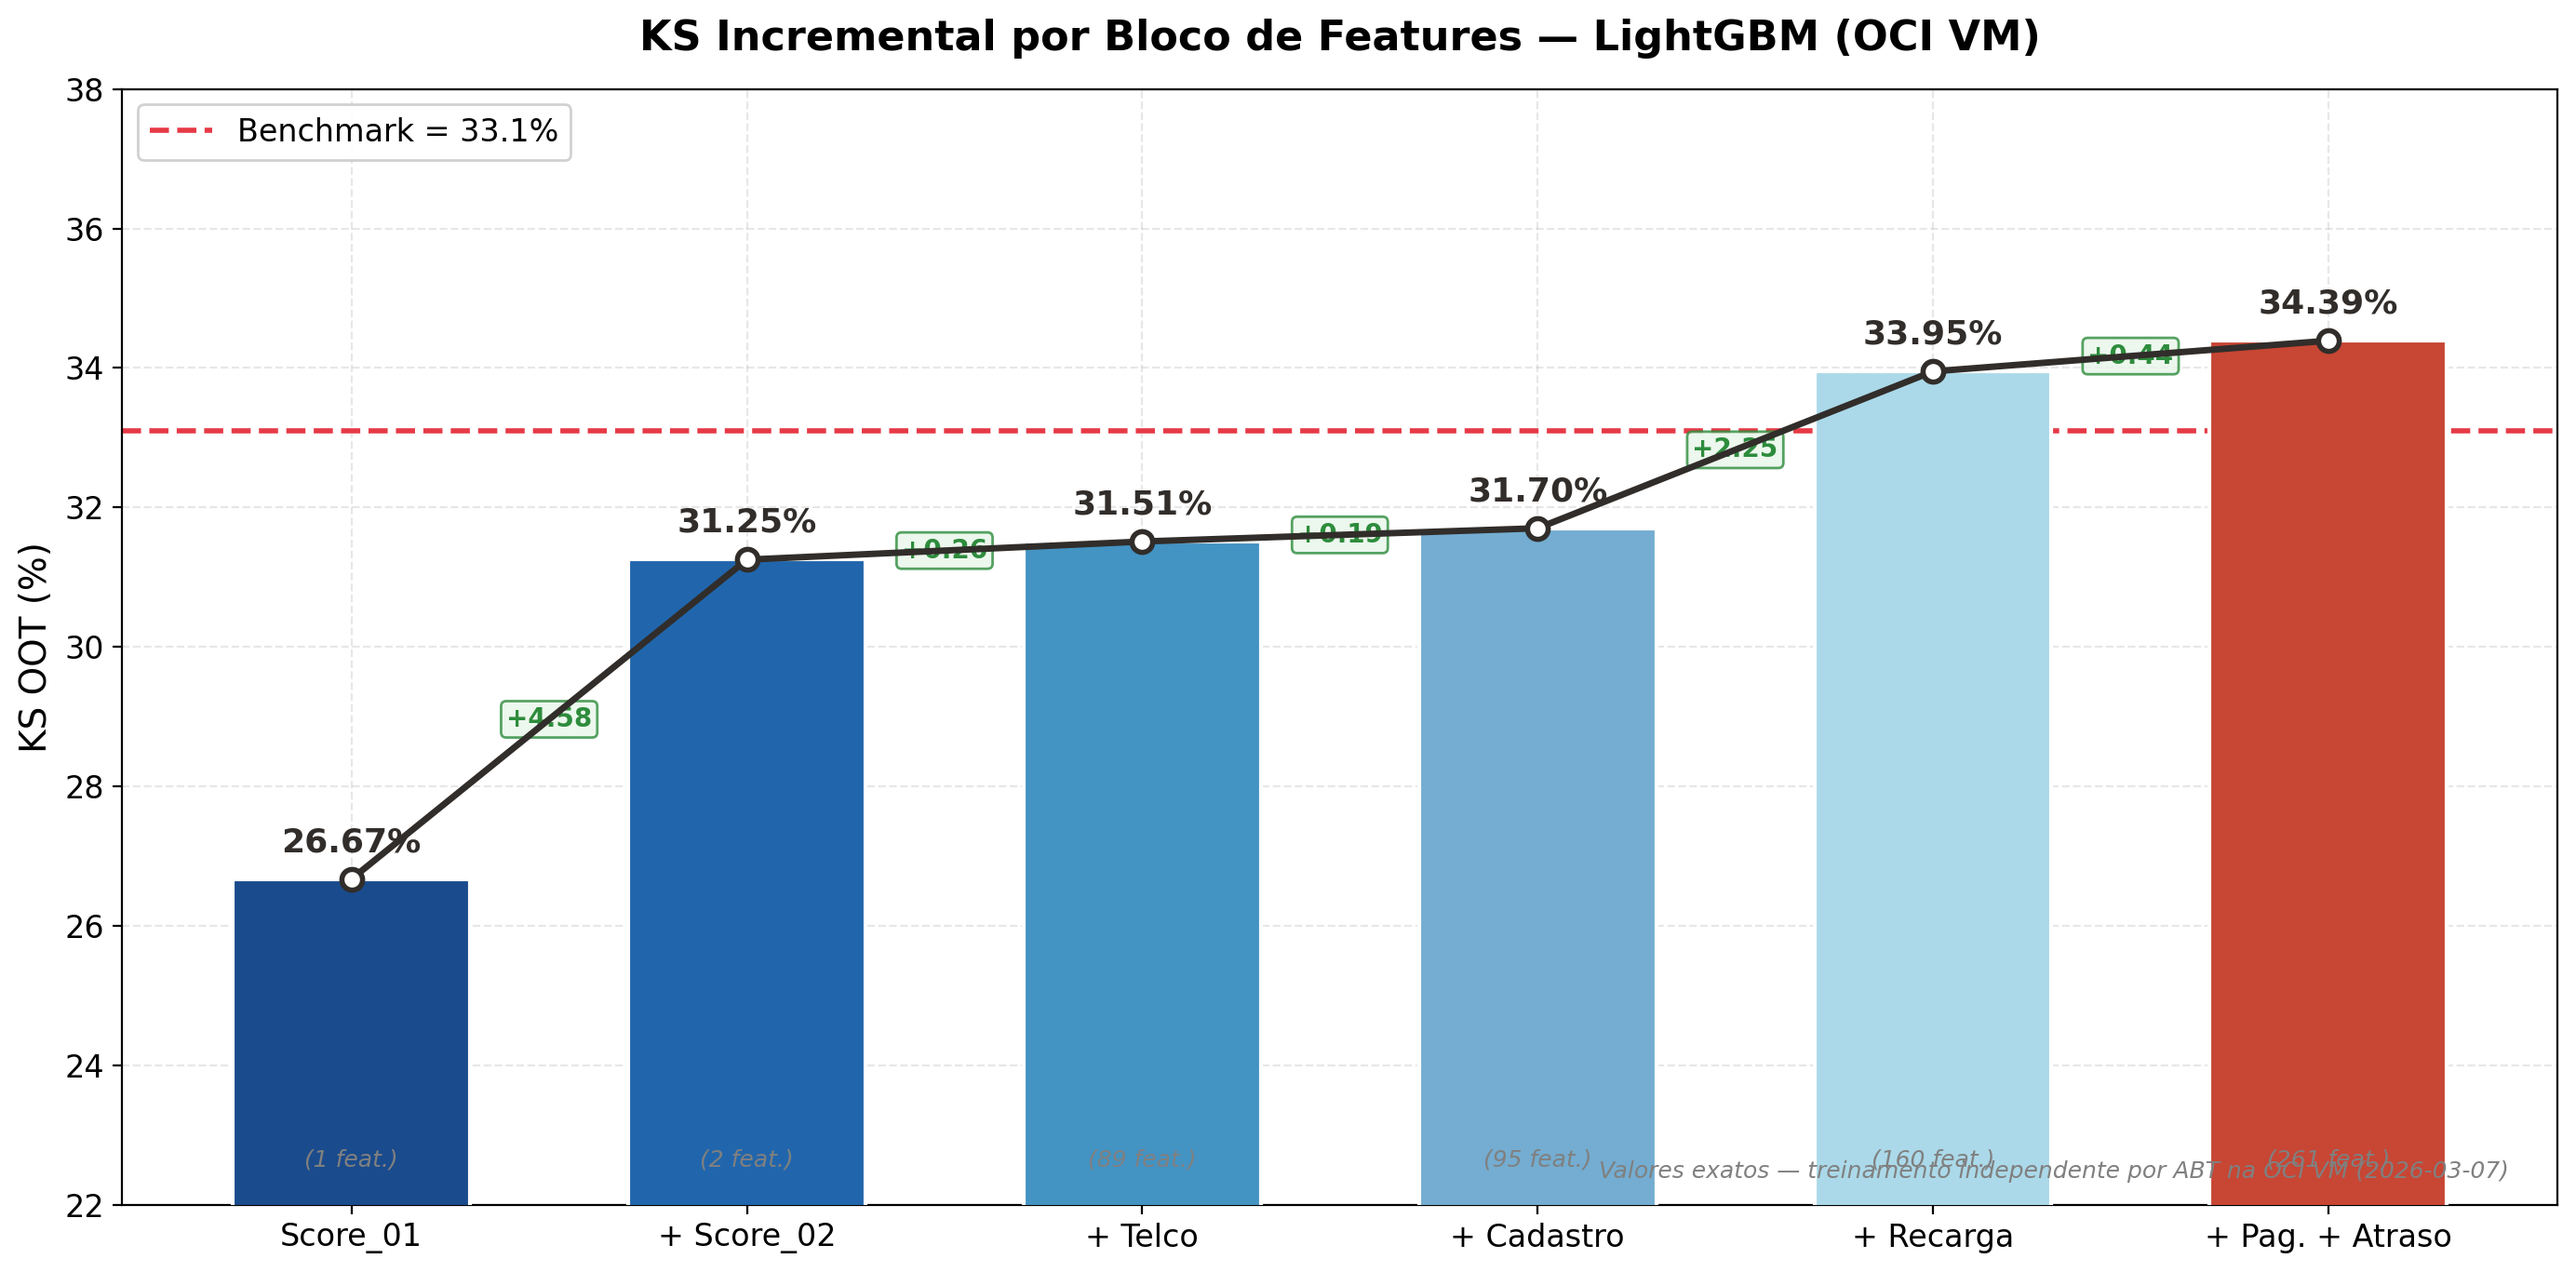
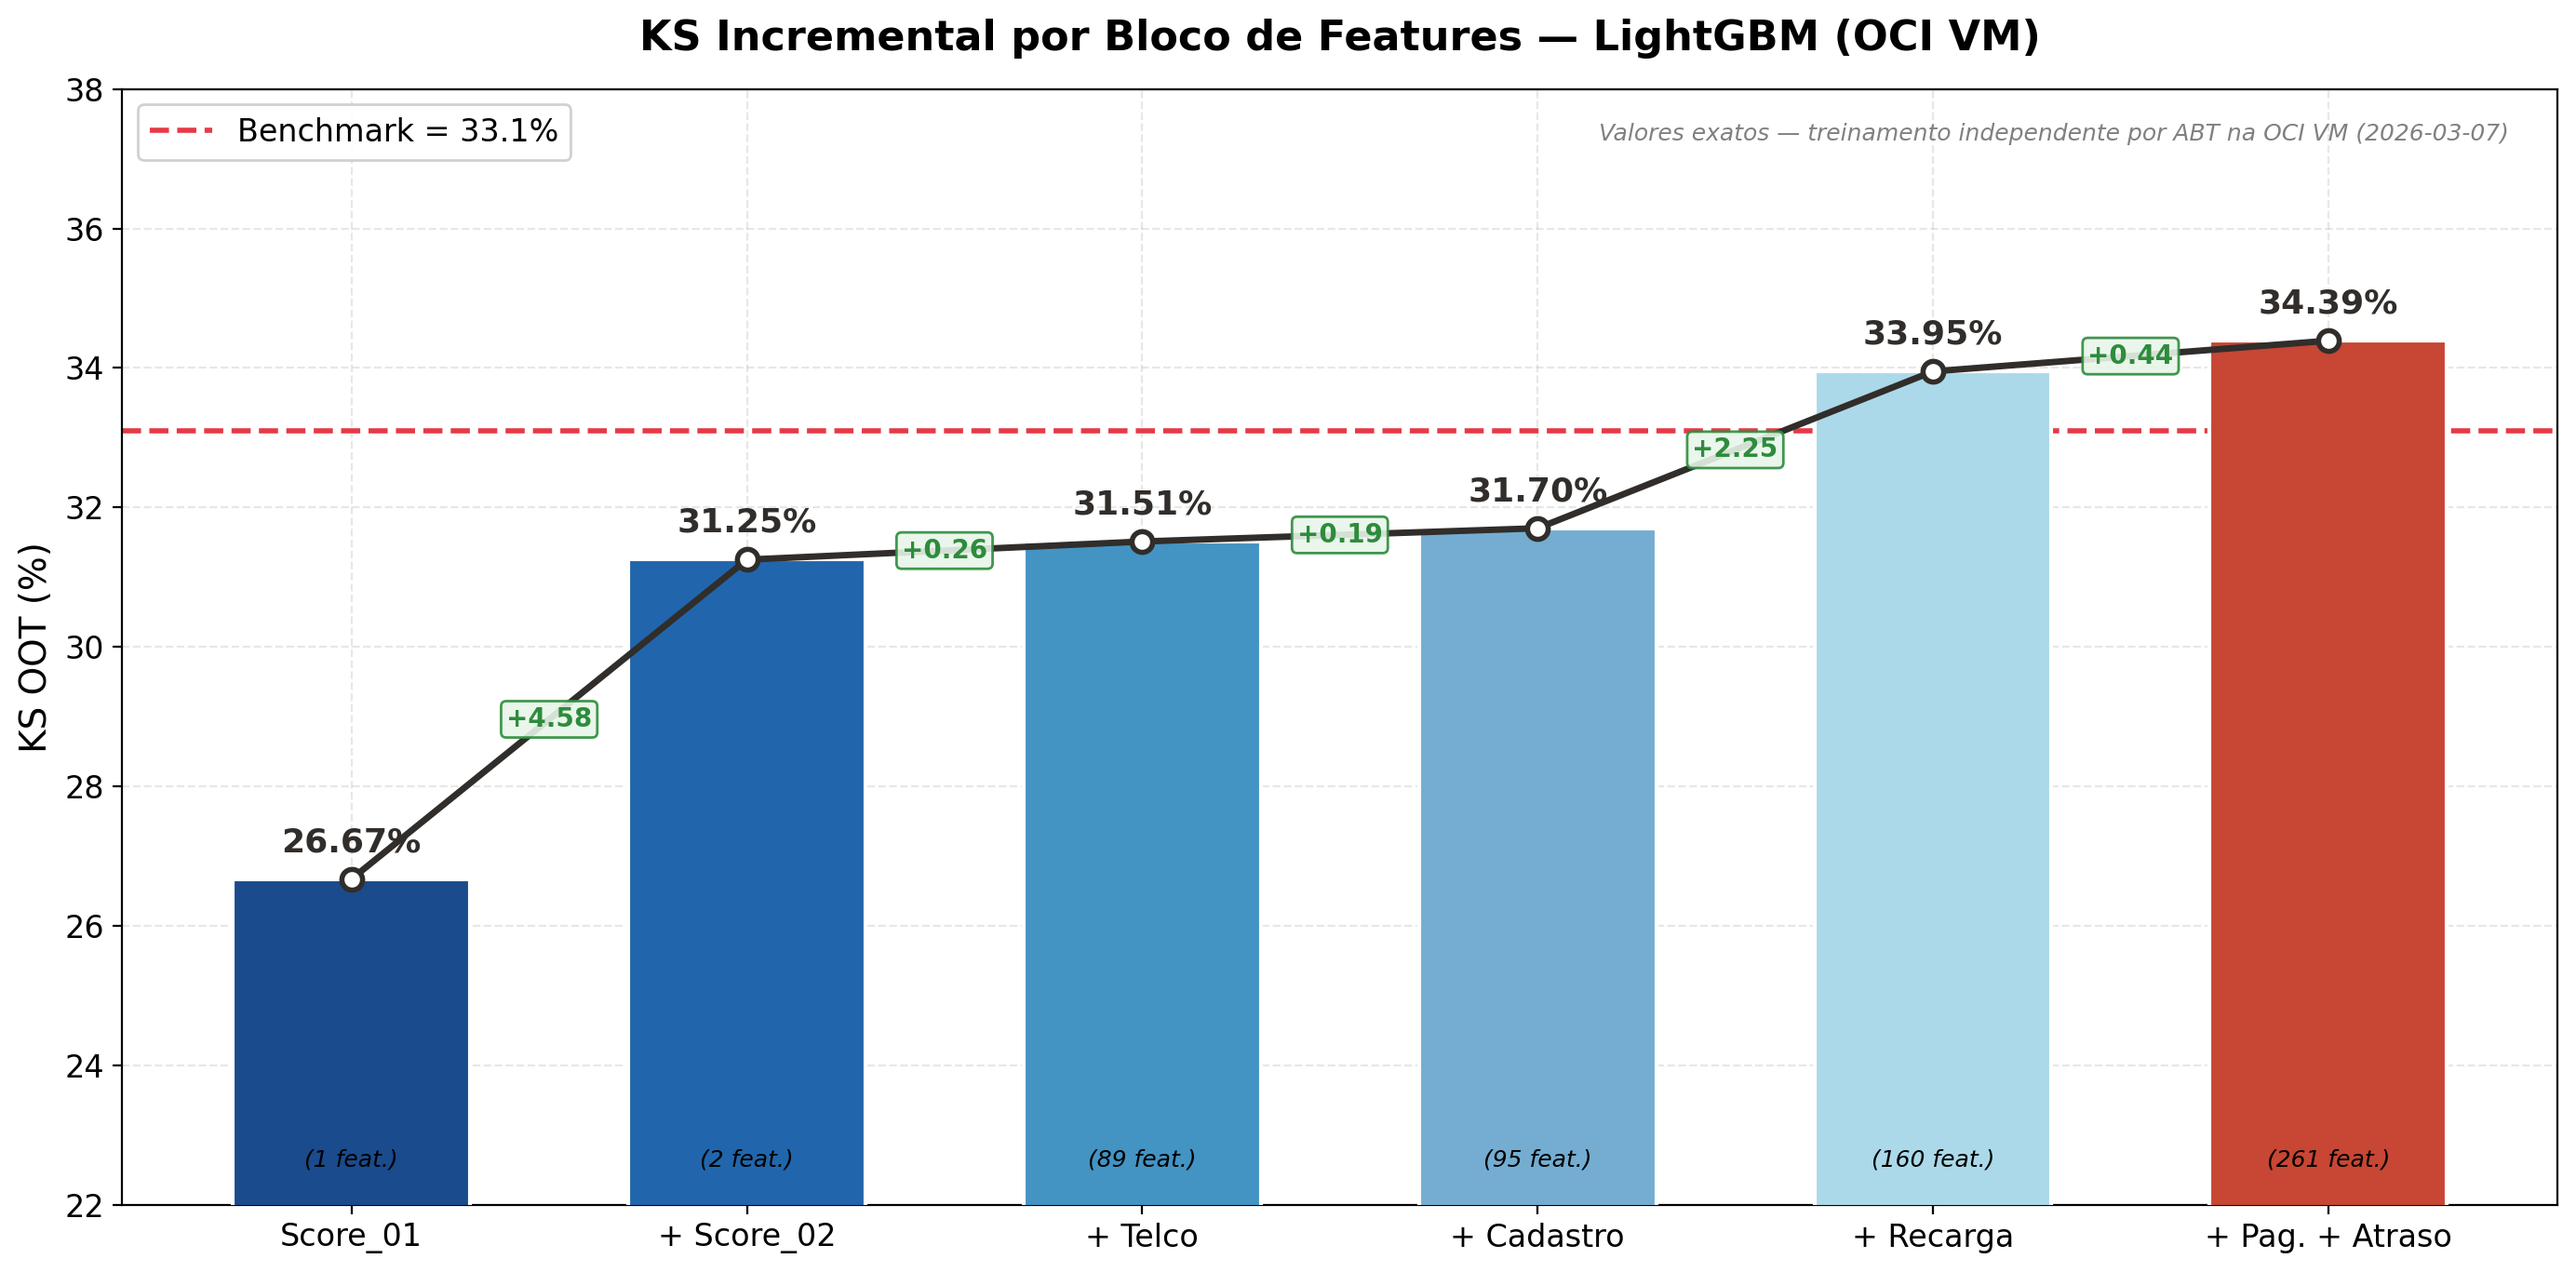
chore: análise graficos

diff --git a/mig_oci/analise/ks_incremental_charts.py b/mig_oci/analise/ks_incremental_charts.py
@@ -151,18 +151,18 @@ def chart_ks_incremental():
         ax.text(bar.get_x() + bar.get_width() / 2, bar.get_height() + 0.3,
                 f"{val:.2f}%", ha="center", va="bottom", fontsize=13, fontweight="bold", color=COLORS["secondary"])
 
-    # Delta annotations
+    # Delta annotations (zorder=5 para ficar NA FRENTE da linha)
     for i in range(1, n):
         delta = ks_values[i] - ks_values[i - 1]
         y_mid = (ks_values[i] + ks_values[i - 1]) / 2
         ax.annotate(f"+{delta:.2f}",
                     xy=(i - 0.5, y_mid), fontsize=10, color=COLORS["green"],
-                    fontweight="bold", ha="center", va="center",
-                    bbox=dict(boxstyle="round,pad=0.2", facecolor="#E8F5E9", edgecolor=COLORS["green"], alpha=0.8))
+                    fontweight="bold", ha="center", va="center", zorder=6,
+                    bbox=dict(boxstyle="round,pad=0.2", facecolor="#E8F5E9", edgecolor=COLORS["green"], alpha=0.9))
 
-    # Número de features embaixo de cada label
+    # Número de features embaixo de cada label (cor preta para melhor visibilidade)
     for i, nf in enumerate(n_features):
-        ax.text(i, 22.8, f"({nf} feat.)", ha="center", va="top", fontsize=9, color="gray", style="italic")
+        ax.text(i, 22.8, f"({nf} feat.)", ha="center", va="top", fontsize=9, color="black", style="italic")
 
     ax.set_xticks(x)
     ax.set_xticklabels(labels, fontsize=12)
@@ -171,9 +171,9 @@ def chart_ks_incremental():
     ax.set_ylim(22, 38)
     ax.legend(loc="upper left", fontsize=12, framealpha=0.9)
 
-    # Nota: todos valores exatos
-    ax.text(0.98, 0.02, "Valores exatos — treinamento independente por ABT na OCI VM (2026-03-07)",
-            transform=ax.transAxes, fontsize=9, ha="right", va="bottom",
+    # Nota: todos valores exatos (posicionada no topo direito para não sobrepor labels)
+    ax.text(0.98, 0.97, "Valores exatos — treinamento independente por ABT na OCI VM (2026-03-07)",
+            transform=ax.transAxes, fontsize=9, ha="right", va="top",
             style="italic", color="gray")
 
     fig.tight_layout()

diff --git a/mig_oci/analise/ANALISE_GRAFICOS.md b/mig_oci/analise/ANALISE_GRAFICOS.md
@@ -1,14 +1,15 @@
 # Análise de Gráficos — Apresentação Final
 
-Documentação detalhada dos 10 gráficos gerados para a apresentação final do Hackathon PodAcademy 2025.
+Documentação detalhada dos 15 gráficos gerados para a apresentação final do Hackathon PodAcademy 2025.
 
 ## Índice
 
 1. [Gráficos 01-05: KS Incremental e Modelo](#gráficos-01-05-ks-incremental-e-modelo)
 2. [Gráficos 06-10: Comparação Databricks vs OCI](#gráficos-06-10-comparação-databricks-vs-oci)
-3. [Dados e Metodologia](#dados-e-metodologia)
-4. [Interpretação dos Resultados](#interpretação-dos-resultados)
-5. [Sugestão de Ordem para Apresentação](#sugestão-de-ordem-para-apresentação)
+3. [Gráficos 11-15: Swap-in / Swap-out](#gráficos-11-15-swap-in--swap-out)
+4. [Dados e Metodologia](#dados-e-metodologia)
+5. [Interpretação dos Resultados](#interpretação-dos-resultados)
+6. [Sugestão de Ordem para Apresentação](#sugestão-de-ordem-para-apresentação)
 
 ---
 
@@ -150,6 +151,44 @@ Script: `comparacao_databricks_oci.py`
 
 ---
 
+## Gráficos 11-15: Swap-in / Swap-out
+
+Script: `Swap-in_Swap-out/swap_charts.py` | Documentação detalhada: [`Swap-in_Swap-out/ANALISE_SWAP.md`](Swap-in_Swap-out/ANALISE_SWAP.md)
+
+**Conceito:** Compara as decisões do modelo antigo (Score_01) vs modelo novo (LightGBM) na mesma população OOT (851,616 clientes), quantificando o impacto prático da substituição.
+
+### 11 — Decil Comparativo (Score_01 vs LightGBM)
+
+![11](Swap-in_Swap-out/output/11_decil_comparativo.png)
+
+**O que mostra:** Taxa FPD por decil de risco. LightGBM separa 10x (5.1% vs 52.9%) enquanto Score_01 separa apenas 5x (7.5% vs 40.9%). KS Score_01: 26.71% vs KS LightGBM: 34.42%.
+
+### 12 — Matriz de Swap (80% de aprovação)
+
+![12](Swap-in_Swap-out/output/12_matriz_swap.png)
+
+**O que mostra:** Matriz 2×2 com volume e FPD por célula. 138K clientes (16.3%) mudariam de decisão. Swap-out captura 69K maus (FPD 41.8%), Swap-in recupera 69K bons (FPD 23.6%). FPD entre aprovados cai de 17.12% → 15.26%.
+
+### 13 — FPD entre Aprovados por Taxa de Aprovação
+
+![13](Swap-in_Swap-out/output/13_fpd_por_taxa.png)
+
+**O que mostra:** O LightGBM é consistentemente melhor em todas as taxas (70-90%). Maior ganho na taxa 70% (-13.6%), menor na taxa 90% (-7.2%). A área verde representa a redução de inadimplência.
+
+### 14 — Volume de Swap por Taxa de Aprovação
+
+![14](Swap-in_Swap-out/output/14_swap_volume.png)
+
+**O que mostra:** Volume de clientes em Swap-out (maus capturados) e Swap-in (bons recuperados) para cada taxa. FPD do Swap-out cresce de 35% a 51% conforme a taxa aumenta.
+
+### 15 — Resumo do Ganho: Redução de FPD
+
+![15](Swap-in_Swap-out/output/15_resumo_ganho.png)
+
+**O que mostra:** Barras horizontais com a redução relativa de FPD. Na taxa 70%: -13.6% (15.40% → 13.30%). Na taxa 80%: -10.8% (17.12% → 15.26%).
+
+---
+
 ## Dados e Metodologia
 
 ### Fonte: KS Incremental OCI VM
@@ -204,13 +243,17 @@ Features de Recarga, Pagamento e Atraso têm IV individual baixo (0.01-0.04), ma
 2. **Gráfico 03** — Waterfall (contribuição isolada de cada bloco)
 3. **Gráfico 02** — Logística vs LightGBM (justifica escolha do algoritmo)
 
-### Bloco 2 — Migração OCI (slides 4-6)
-4. **Gráfico 06** — KS Databricks vs OCI (lado a lado)
-5. **Gráfico 07** — Métricas comparativas (4 painéis)
-6. **Gráfico 10** — Timeline da migração (8 fases, 30 dias)
+### Bloco 2 — Valor de Negócio: Swap Analysis (slides 4-6)
+4. **Gráfico 11** — Decil Comparativo (superioridade do ranking do LightGBM)
+5. **Gráfico 12** — Matriz de Swap a 80% (impacto prático quantificado)
+6. **Gráfico 13** — FPD por Taxa (ganho consistente em qualquer cenário)
 
-### Bloco 3 — Resultado Final (slides 7-9)
-7. **Gráfico 08** — Custos (-76%)
-8. **Gráfico 05** — Features por bloco (composição do modelo)
-9. **Gráfico 09** — Cards de ganhos (slide de conclusão)
-10. **Gráfico 04** — Resumo final vs benchmark (slide de fechamento)
+### Bloco 3 — Migração OCI (slides 7-9)
+7. **Gráfico 06** — KS Databricks vs OCI (lado a lado)
+8. **Gráfico 10** — Timeline da migração (8 fases, 30 dias)
+9. **Gráfico 08** — Custos (-76%)
+
+### Bloco 4 — Resultado Final (slides 10-12)
+10. **Gráfico 15** — Resumo do Ganho: Redução de FPD (impacto do swap)
+11. **Gráfico 09** — Cards de ganhos da migração (slide de conclusão)
+12. **Gráfico 04** — Resumo final vs benchmark (slide de fechamento)
